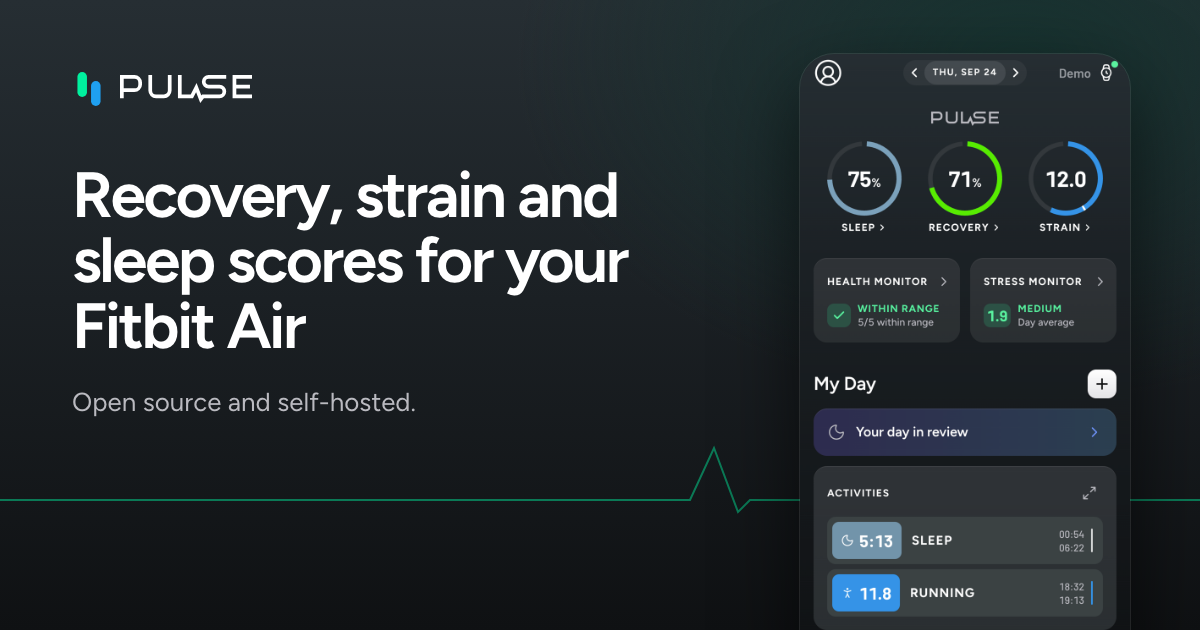
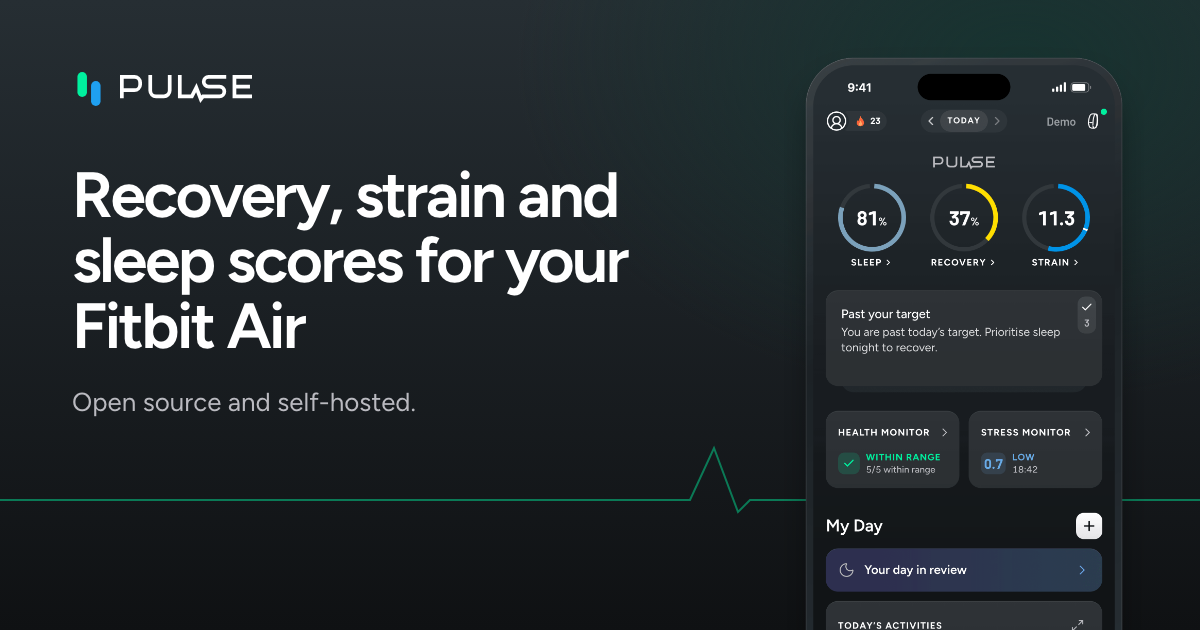
docs: retake every screenshot from the current app, framed
site/scripts/shots.mjs (pnpm shots in site/) signs in to demo mode and
captures nine screens on a phone (390 wide, 3x) and a laptop (1440 x 900,
2x), each in a device or window frame with margin. The old six are gone;
README, docs/screenshots.md, the OG card and the site point at the new set.

diff --git a/site/src/data/metrics.ts b/site/src/data/metrics.ts
@@ -4,10 +4,10 @@
 // sources and related links. A new entry in SCORE_DOCS gets a page with sensible defaults and no edit here.
 import { SCORE_DOCS, type ScoreDoc } from "../../../src/app/(app)/more/how-it-works/content"
 
-export type Source = { label: string; url: string }
+export type Source = { label: string; url?: string }
 export type Band = { from: number; to: number; label: string; color: string }
 export type Scale = { min: number; max: number; unit?: string; bands: Band[] }
-export type Shot = "mobile-home" | "mobile-sleep" | "mobile-healthspan" | "desktop-strain" | "desktop-health"
+export type Shot = `${"phone" | "laptop"}-${"home" | "recovery" | "strain" | "sleep" | "health" | "health-monitor" | "journal" | "trends" | "dashboard-editor"}`
 export type Faq = { q: string; a: string }
 
 type Meta = {
@@ -98,17 +98,16 @@ const S = {
     url: "https://doi.org/10.1503/cmaj.150535",
   },
   googleHealthApi: { label: "Google Health API reference: data points and field definitions", url: "https://developers.google.com/health/reference/rest/v4/users.dataTypes.dataPoints" },
-  refapp101: { label: "the reference app developer docs, the reference app 101 (recovery colour bands)", url: "#" },
 }
 
 const META: Record<string, Meta> = {
   recovery: {
     title: "Recovery score for Fitbit Air: how Pulse works it out",
     description: "Pulse turns Fitbit Air HRV, resting heart rate, sleep, breathing and skin temperature into a 0-100% Recovery score. The inputs, weights and limits.",
-    keywords: ["fitbit air recovery score", "refapp recovery score explained", "how is recovery score calculated", "hrv recovery score"],
+    keywords: ["fitbit air recovery score", "recovery score explained", "how is recovery score calculated", "hrv recovery score"],
     scale: recoveryScale,
-    shot: "mobile-home",
-    sources: [S.noop, S.plews2013, S.buchheit2014, S.altini2021, S.refapp101],
+    shot: "phone-recovery",
+    sources: [S.noop, S.plews2013, S.buchheit2014, S.altini2021],
     related: ["hrv", "resting-heart-rate", "sleep", "recovery-forecast", "strain-target"],
     faq: [
       {
@@ -128,7 +127,7 @@ const META: Record<string, Meta> = {
   strain: {
     title: "Strain score from heart rate: the 0-21 scale explained",
     description: "How Pulse scores a day's cardiovascular load on a 0-21 Strain scale from Fitbit Air heart rate, heart-rate reserve zones and a log curve.",
-    keywords: ["strain score explained", "refapp strain 0-21", "fitbit air strain", "cardio load score"],
+    keywords: ["strain score explained", "strain 0-21 scale", "fitbit air strain", "cardio load score"],
     scale: {
       min: 0,
       max: 21,
@@ -139,13 +138,13 @@ const META: Record<string, Meta> = {
         { from: 18, to: 21, label: "All out", color: "#8fd0ff" },
       ],
     },
-    shot: "desktop-strain",
+    shot: "laptop-strain",
     sources: [S.noop, S.edwards],
     related: ["strain-target", "training-balance", "training-load", "energy-bank"],
     faq: [
       {
         q: "Why is Strain on a 0-21 scale?",
-        a: "Pulse uses the same 0-21 range as the reference app so the numbers feel familiar. The day's heart-rate points go on a log curve, so each extra point of Strain takes more effort than the last.",
+        a: "Pulse uses the familiar 0-21 range, so the numbers read naturally. The day's heart-rate points go on a log curve, so each extra point of Strain takes more effort than the last.",
       },
       {
         q: "Why does weightlifting give me low Strain?",
@@ -157,7 +156,7 @@ const META: Record<string, Meta> = {
     title: "Strain Target: a daily training range from your Recovery",
     description: "Pulse sets today's Strain range from your Recovery band and 28-day load, then caps fast ramp-ups with the acute:chronic workload ratio.",
     keywords: ["how much should i train today", "strain target", "strain coach alternative"],
-    shot: "desktop-strain",
+    shot: "phone-strain",
     sources: [S.gabbett2016, S.noop],
     related: ["strain", "recovery", "training-balance"],
   },
@@ -176,7 +175,7 @@ const META: Record<string, Meta> = {
         { from: 85, to: 100, label: "Optimal", color: "#a6c3d7" },
       ],
     },
-    shot: "mobile-sleep",
+    shot: "phone-sleep",
     sources: [S.noop, S.phillips2017],
     related: ["sleep-planner", "sleep-consistency", "recovery"],
   },
@@ -184,15 +183,15 @@ const META: Record<string, Meta> = {
     title: "Sleep Planner: tonight's sleep need and bedtime",
     description: "Pulse works out tonight's sleep need from your history, today's Strain, sleep debt and naps, then counts back from your usual wake time.",
     keywords: ["what time should i go to bed", "sleep need calculator", "sleep debt"],
-    shot: "mobile-sleep",
+    shot: "laptop-sleep",
     sources: [S.noop],
     related: ["sleep", "sleep-consistency", "strain"],
   },
   "pulse-age": {
     title: "Pulse Age: a biological age estimate from your wearable",
     description: "Pulse Age estimates how old your body behaves from nine habits and vitals, using published mortality studies. How it works, and what it cannot tell you.",
-    keywords: ["biological age from wearable", "refapp age alternative", "pace of aging", "fitbit biological age"],
-    shot: "mobile-healthspan",
+    keywords: ["biological age from wearable", "biological age without a subscription", "pace of aging", "fitbit biological age"],
+    shot: "phone-health",
     sources: [
       {
         label: "Kodama S, et al. Cardiorespiratory fitness as a quantitative predictor of all-cause mortality. JAMA 2009;301(19):2024-35",
@@ -227,7 +226,7 @@ const META: Record<string, Meta> = {
     slug: "stress-monitor",
     title: "Stress Monitor: a 0-3 stress score from heart rate",
     description: "Pulse scores each still, awake minute from 0 to 3 by how far your heart rate sits above your calm daytime level. Inputs, curve and limits.",
-    keywords: ["stress score from heart rate", "refapp stress monitor alternative", "fitbit air stress"],
+    keywords: ["stress score from heart rate", "stress monitor without a subscription", "fitbit air stress"],
     scale: {
       min: 0,
       max: 3,
@@ -237,7 +236,7 @@ const META: Record<string, Meta> = {
         { from: 2, to: 3, label: "High", color: C.stressHigh },
       ],
     },
-    shot: "mobile-home",
+    shot: "phone-home",
     sources: [S.noop],
     related: ["energy-bank", "resting-heart-rate", "health-monitor"],
   },
@@ -246,7 +245,7 @@ const META: Record<string, Meta> = {
     description: "Pulse's Energy Bank starts from Recovery and sleep, then spends and recharges minute by minute from heart-rate load, stress and naps.",
     keywords: ["body battery for fitbit", "energy bank", "body battery alternative"],
     scale: recoveryScale,
-    shot: "mobile-home",
+    shot: "laptop-home",
     sources: [S.edwards],
     related: ["recovery", "stress", "strain"],
   },
@@ -254,7 +253,7 @@ const META: Record<string, Meta> = {
     title: "Health Monitor: nightly vitals against your normal range",
     description: "Pulse checks last night's resting heart rate, HRV, respiratory rate, SpO2 and skin temperature against your own ranges, and flags an illness pattern.",
     keywords: ["fitbit air health metrics", "spo2 skin temperature fitbit", "illness detection wearable"],
-    shot: "desktop-health",
+    shot: "laptop-health-monitor",
     sources: [
       S.noop,
       { label: "Mishra T, et al. Pre-symptomatic detection of COVID-19 from smartwatch data. Nat Biomed Eng 2020;4:1208-20", url: "https://doi.org/10.1038/s41551-020-00640-6" },
@@ -279,7 +278,7 @@ const META: Record<string, Meta> = {
         { from: 80, to: 100, label: "Superior", color: C.optimal },
       ],
     },
-    shot: "desktop-health",
+    shot: "laptop-health",
     sources: [
       S.kaminsky2015,
       { label: "Kaminsky LA, et al. Updated reference standards for cardiorespiratory fitness (FRIEND). Mayo Clin Proc 2022;97(2):285-93", url: "https://doi.org/10.1016/j.mayocp.2021.08.020" },
@@ -290,7 +289,7 @@ const META: Record<string, Meta> = {
     title: "Training balance: acute:chronic workload ratio (ACWR)",
     description: "Pulse compares your last 7 days of Strain with your last 28 to show whether your load is balanced, rising fast or dropping off.",
     keywords: ["acute chronic workload ratio", "acwr calculator", "am i overtraining"],
-    shot: "desktop-health",
+    shot: "laptop-trends",
     scale: {
       min: 0,
       max: 2,
@@ -308,7 +307,8 @@ const META: Record<string, Meta> = {
     slug: "behaviour-insights",
     title: "Behaviour insights: how habits go with next-day scores",
     description: "Pulse compares days you logged a behaviour with days you did not, and shows the difference in next-day Recovery, HRV and sleep with a bootstrap interval.",
-    keywords: ["does alcohol affect hrv", "refapp journal alternative", "habit tracking recovery"],
+    keywords: ["does alcohol affect hrv", "habit journal for recovery", "habit tracking recovery"],
+    shot: "phone-journal",
     sources: [{ label: "Efron B, Tibshirani RJ. An Introduction to the Bootstrap. Chapman & Hall, 1993", url: "https://doi.org/10.1201/9780429246593" }],
     related: ["recovery", "hrv", "sleep"],
   },
@@ -326,7 +326,7 @@ const META: Record<string, Meta> = {
         { from: 80, to: 100, label: "Optimal", color: "#a6c3d7" },
       ],
     },
-    shot: "mobile-sleep",
+    shot: "laptop-sleep",
     sources: [S.phillips2017, S.windred2024],
     related: ["sleep", "sleep-planner", "pulse-age"],
   },
@@ -380,7 +380,7 @@ const EXTRA_DOCS: (ScoreDoc & Meta)[] = [
     title: "HRV on the Fitbit Air: what it is and how Pulse uses it",
     description: "Where Pulse gets your Fitbit Air HRV, why it compares HRV only with your own baseline, and how it drives Recovery and the Health Monitor.",
     keywords: ["fitbit air hrv", "what is a good hrv", "hrv baseline", "rmssd"],
-    shot: "desktop-health",
+    shot: "phone-health-monitor",
     sources: [S.googleHealthApi, S.plews2013, S.buchheit2014, S.altini2021],
     related: ["recovery", "resting-heart-rate", "health-monitor", "journal-impact"],
     sections: [
@@ -421,7 +421,7 @@ const EXTRA_DOCS: (ScoreDoc & Meta)[] = [
     title: "Resting heart rate on the Fitbit Air: how Pulse measures it",
     description: "How Pulse takes resting heart rate from Fitbit Air sleep data, and how it feeds Recovery, Strain, the Health Monitor and Pulse Age.",
     keywords: ["fitbit air resting heart rate", "sleeping heart rate", "what is a good resting heart rate"],
-    shot: "desktop-health",
+    shot: "laptop-health-monitor",
     sources: [S.zhang2016, S.altini2021, S.noop],
     related: ["hrv", "recovery", "pulse-age", "strain"],
     sections: [

diff --git a/site/src/lib/shots.ts b/site/src/lib/shots.ts
@@ -1,19 +1,28 @@
-// The app's own screenshots (docs/screenshots, demo mode with seeded data). Never third-party images.
-import desktopHealth from "../../../docs/screenshots/desktop-health.png"
-import desktopStrain from "../../../docs/screenshots/desktop-strain.png"
-import mobileHealthspan from "../../../docs/screenshots/mobile-healthspan.png"
-import mobileHome from "../../../docs/screenshots/mobile-home.png"
-import mobileSleep from "../../../docs/screenshots/mobile-sleep.png"
+// The app's own screenshots (docs/screenshots, demo mode with seeded data, framed by site/scripts/shots.mjs).
+// Never third-party images.
 import type { Shot } from "../data/metrics"
 
-export const SHOTS = {
-  "mobile-home": { src: mobileHome, alt: "Pulse on a phone: sleep, recovery and strain dials, with the Health and Stress Monitor cards below" },
-  "mobile-sleep": { src: mobileSleep, alt: "Pulse on a phone: the Sleep Performance screen" },
-  "mobile-healthspan": { src: mobileHealthspan, alt: "Pulse on a phone: the Healthspan screen with Pulse Age and Pace of Aging" },
-  "desktop-strain": { src: desktopStrain, alt: "Pulse on a laptop: the Strain screen with the Strain dial, Strain Target and a day of heart rate" },
-  "desktop-health": { src: desktopHealth, alt: "Pulse on a laptop: the Health screen with Pulse Age, the Health Monitor, the Stress Monitor and Fitness" },
-} satisfies Record<Shot, { src: ImageMetadata; alt: string }>
+const files = import.meta.glob<{ default: ImageMetadata }>("../../../docs/screenshots/*.png", { eager: true })
+
+const ALT: Record<string, string> = {
+  home: "Home: the Sleep, Recovery and Strain dials, the Health and Stress Monitor cards and the day's activities",
+  recovery: "Recovery: today's score and its contributors (HRV, resting heart rate, breathing, sleep, skin temperature) against your baselines",
+  strain: "Strain: the day's 0-21 Strain, the Strain Target range, heart rate zones and steps",
+  sleep: "Sleep: Sleep Performance, with hours against need, consistency, efficiency and restorative sleep",
+  health: "Health: Pulse Age and Pace of Aging, with the Health Monitor below",
+  "health-monitor": "Health Monitor: last night's vitals against your normal range, heart rhythm and measurements",
+  journal: "Journal: the week strip, the Log for water, food, weight and mood, and the evening check-in",
+  trends: "Trends: Recovery by day over the past month, with weekly and monthly averages",
+  "dashboard-editor": "My Dashboard: choose the metrics on Home and their order",
+}
+
+export function shot(s: Shot) {
+  const src = files[`../../../docs/screenshots/${s}.png`]?.default
+  if (!src) throw new Error(`Missing screenshot docs/screenshots/${s}.png`)
+  const [device, ...rest] = s.split("-")
+  return { src, alt: `Pulse on a ${device}. ${ALT[rest.join("-")]}` }
+}
 
 export function isPhone(s: Shot) {
-  return s.startsWith("mobile")
+  return s.startsWith("phone")
 }

diff --git a/site/src/styles/global.css b/site/src/styles/global.css
@@ -156,7 +156,7 @@ pre {
   font-weight: 600;
 }
 
-.shot {
+.shot-old {
   border-radius: 12px;
   outline: 1px solid rgb(255 255 255 / 0.1);
   outline-offset: -1px;

diff --git a/docs/screenshots.md b/docs/screenshots.md
@@ -2,14 +2,40 @@
 
 Demo mode, seeded data. Click any image for the full size.
 
+To retake them, run the app in demo mode (`GOOGLE_OAUTH_ENABLED=false TZ=Asia/Kolkata pnpm dev -p 3317`), then `pnpm shots` in `site/` ([site/scripts/shots.mjs](../site/scripts/shots.mjs)). It signs in to demo mode, captures each screen on a phone (390 wide, 3x) and a laptop (1440 x 900, 2x), and frames them. The marketing site in `site/` uses the same files.
+
 ## Phone
 
-| Home | Sleep | Healthspan |
+| Home | Recovery | Strain |
 | :---: | :---: | :---: |
-| ![Home: sleep, recovery and strain rings](screenshots/mobile-home.png) | ![Sleep performance](screenshots/mobile-sleep.png) | ![Healthspan: Pulse Age orb](screenshots/mobile-healthspan.png) |
+| ![Home: sleep, recovery and strain dials](screenshots/phone-home.png) | ![Recovery](screenshots/phone-recovery.png) | ![Strain](screenshots/phone-strain.png) |
 
-## Desktop
-
-| Home | Strain | Health |
+| Sleep | Health | Health Monitor |
 | :---: | :---: | :---: |
-| ![Desktop home](screenshots/desktop-home.png) | ![Desktop strain](screenshots/desktop-strain.png) | ![Desktop health](screenshots/desktop-health.png) |
+| ![Sleep](screenshots/phone-sleep.png) | ![Health](screenshots/phone-health.png) | ![Health Monitor: heart rhythm and measurements](screenshots/phone-health-monitor.png) |
+
+| Journal | Trends | My Dashboard |
+| :---: | :---: | :---: |
+| ![Journal: the Log and the check-in](screenshots/phone-journal.png) | ![Trends](screenshots/phone-trends.png) | ![My Dashboard editor](screenshots/phone-dashboard-editor.png) |
+
+## Laptop
+
+| Home | Recovery |
+| :---: | :---: |
+| ![Home](screenshots/laptop-home.png) | ![Recovery](screenshots/laptop-recovery.png) |
+
+| Strain | Sleep |
+| :---: | :---: |
+| ![Strain](screenshots/laptop-strain.png) | ![Sleep](screenshots/laptop-sleep.png) |
+
+| Health | Health Monitor |
+| :---: | :---: |
+| ![Health](screenshots/laptop-health.png) | ![Health Monitor: vitals, heart rhythm and measurements](screenshots/laptop-health-monitor.png) |
+
+| Journal | Trends |
+| :---: | :---: |
+| ![Journal: the Log and the check-in](screenshots/laptop-journal.png) | ![Trends](screenshots/laptop-trends.png) |
+
+| My Dashboard |
+| :---: |
+| ![My Dashboard editor](screenshots/laptop-dashboard-editor.png) |

diff --git a/README.md b/README.md
@@ -5,7 +5,15 @@ See `docs/plans/` for the plan.
 
 ## Screenshots
 
-See [docs/screenshots.md](docs/screenshots.md) (demo mode, seeded data).
+<p>
+  <img src="docs/screenshots/phone-home.png" alt="Pulse on a phone: sleep, recovery and strain dials" width="32%">
+  <img src="docs/screenshots/phone-health-monitor.png" alt="Pulse on a phone: the Health Monitor with heart rhythm and measurements" width="32%">
+  <img src="docs/screenshots/phone-journal.png" alt="Pulse on a phone: the Journal with the Log" width="32%">
+</p>
+
+![Pulse on a laptop: the home screen](docs/screenshots/laptop-home.png)
+
+Every screen, on a phone and a laptop: [docs/screenshots.md](docs/screenshots.md) (demo mode, seeded data).
 
 ## Run in demo mode
 
